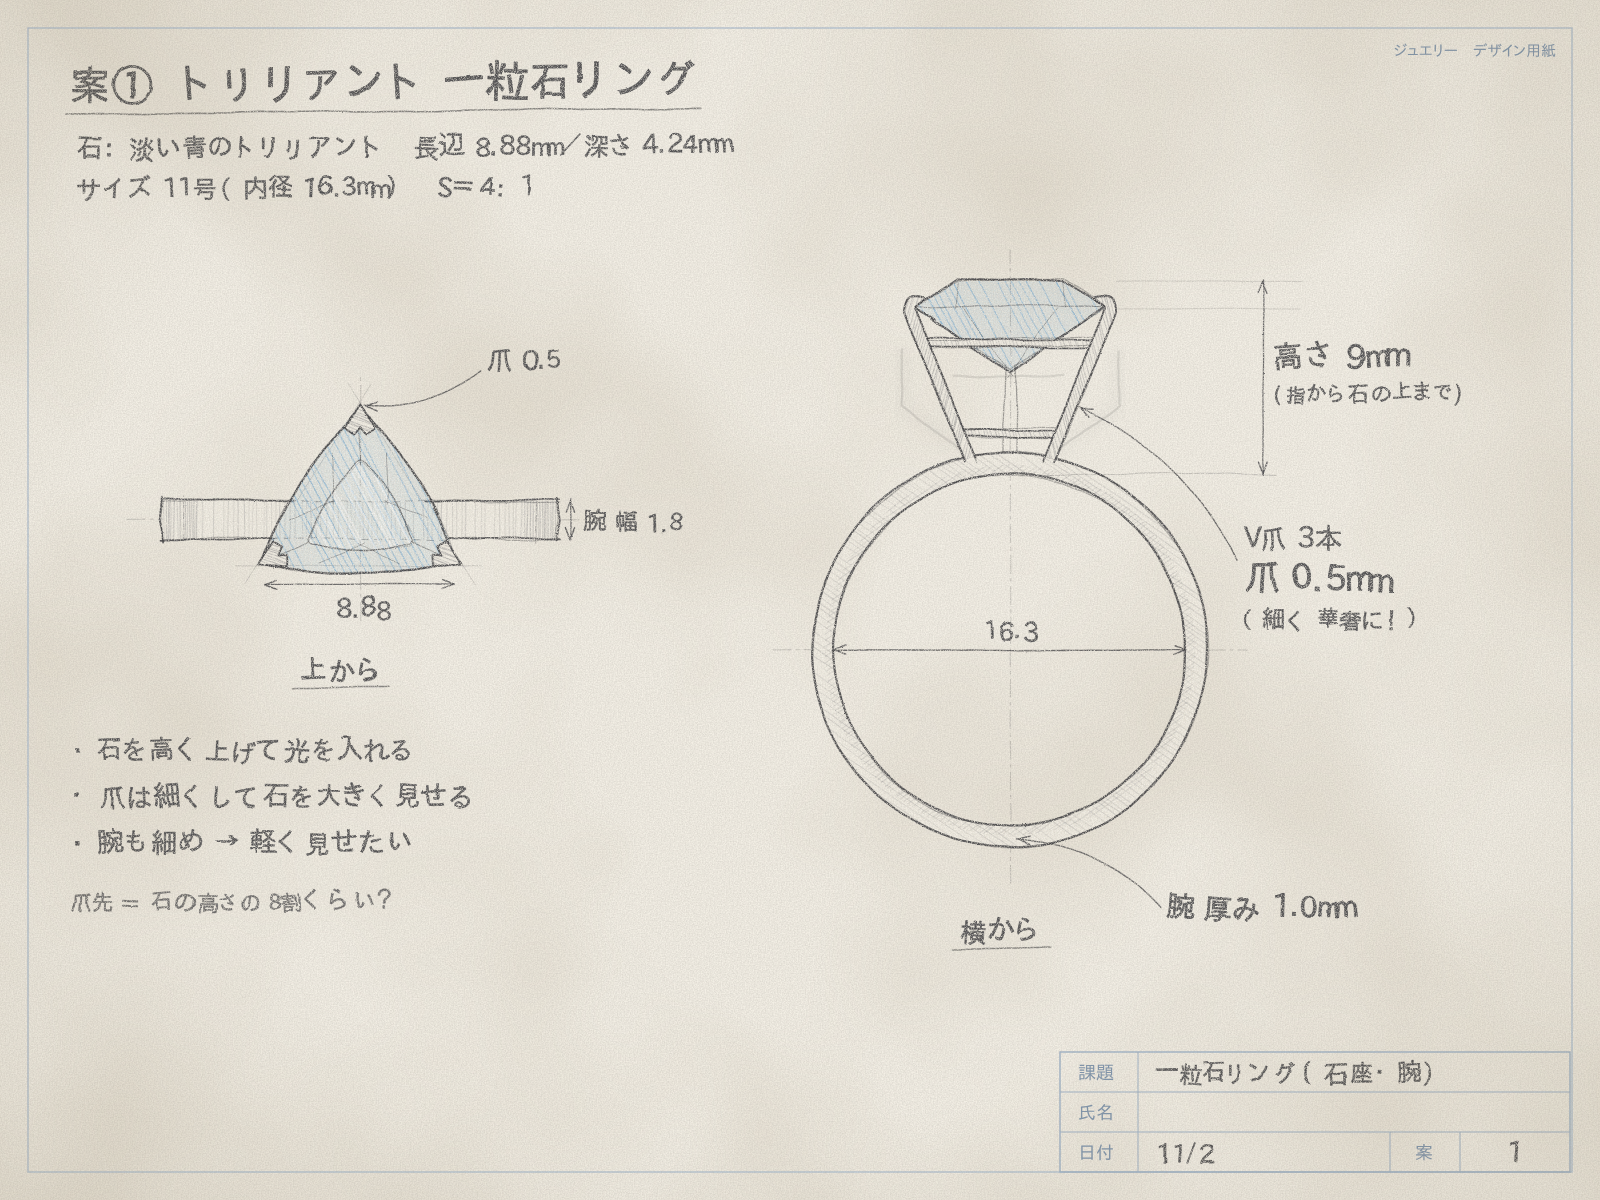
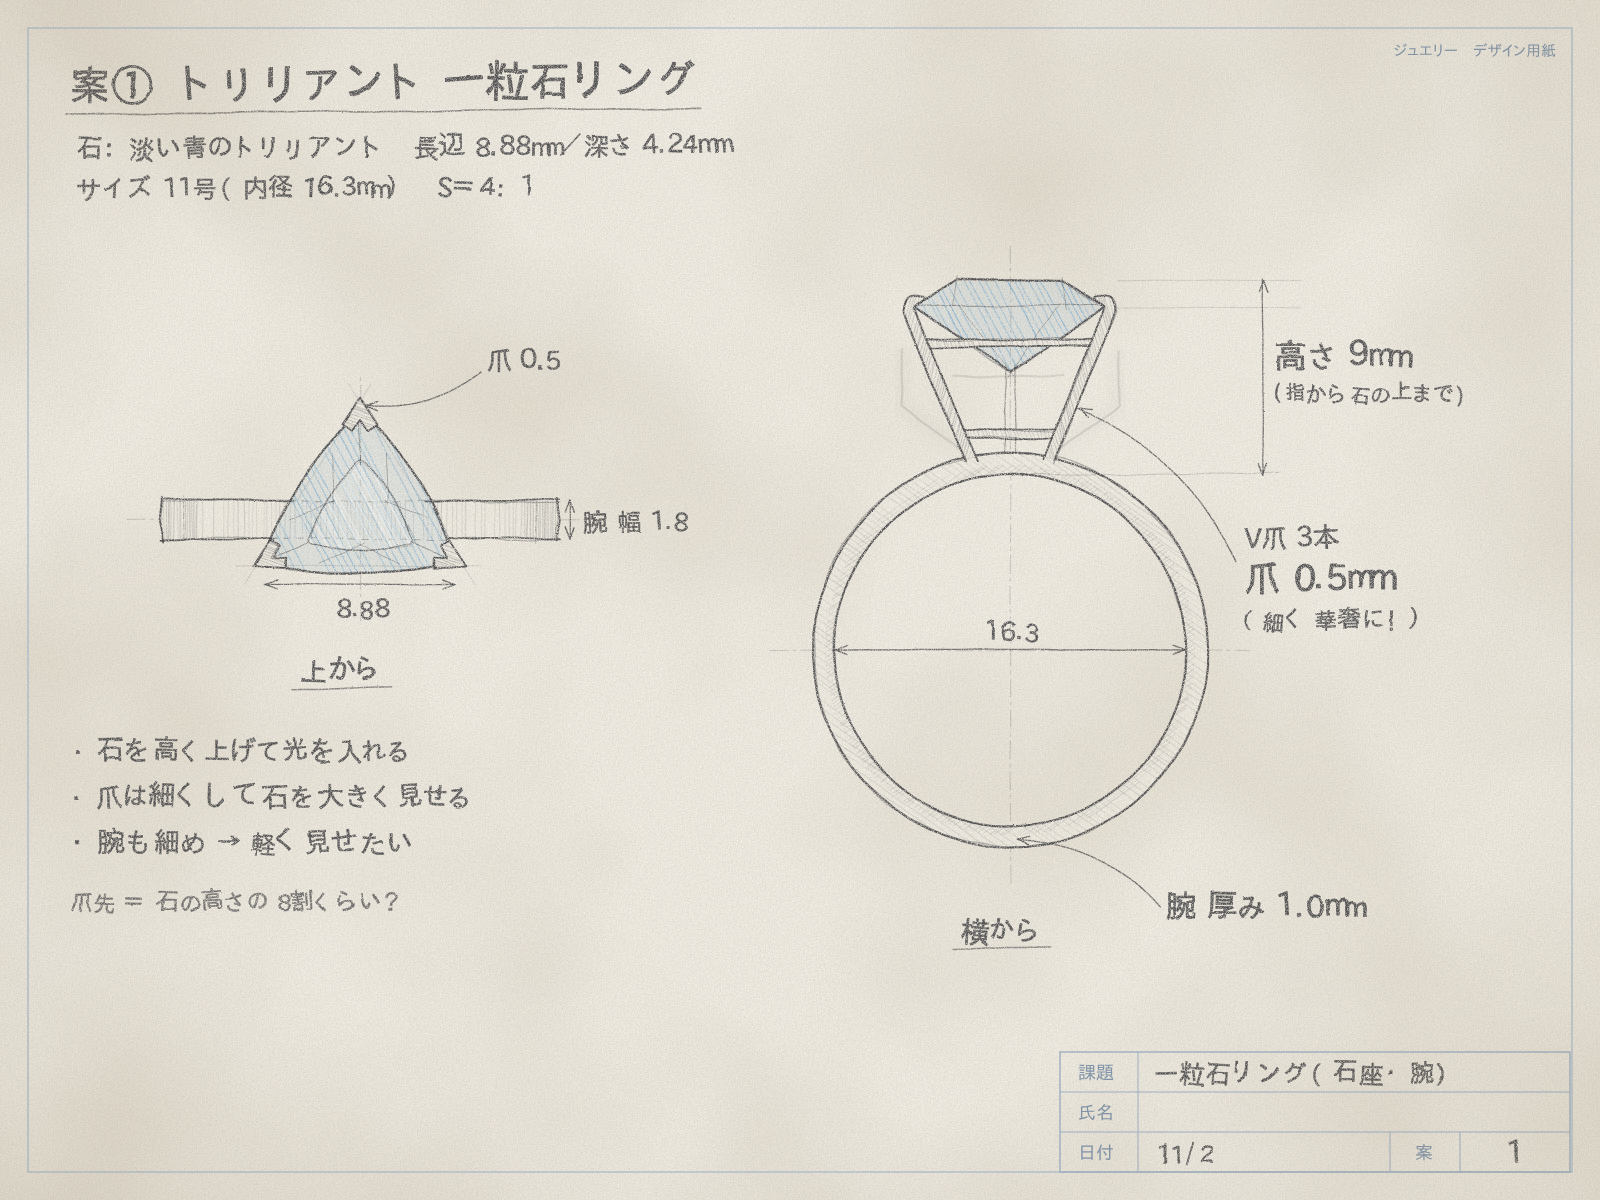
デモ用のラフの絵を、描き直した分に差し替える（途中）
Claude-Session: https://claude.ai/code/session_01HnxViJxGtPKPtM8SjuGHoY

diff --git a/samples/roughs/README.md b/samples/roughs/README.md
@@ -1,0 +1,23 @@
+# roughs（生徒のラフ画 ＝ デモ用の見本）
+
+「継ぐ」で、生徒の手描きラフを職人の目安で確かめる流れを見せるための画像。
+
+**これは本物の生徒の作品ではない。** デモのために、コード（Node のスクリプト）で線を少しずつ揺らして手描き風に描き、ヘッドレスのブラウザ（Playwright）で PNG にした。外の画像や作品は使っていない。氏名の欄はわざと空けてある。文字は IPA Pゴシック（IPA フォントライセンス）を 1 文字ずつ傾けて描いた。
+
+## 共通の条件
+
+- 石：淡い青のトリリアント（角の丸い三角）。長辺 8.88 mm、幅 7.52 mm、深さ 4.24 mm（上側 1.27 mm／下側 2.97 mm として描いた）。
+- 指輪：一粒石、サイズ 11 号（内径 16.3 mm）。
+- 図：上から見た図と、横から（指の方向から）見た図。縮尺は 4：1（1600 × 1200 px の紙を A4 横とみなす）。図の寸法は mm の値に合わせて描いてある。
+- 紙：生成りの用紙、鉛筆の線、色鉛筆の青、消しゴムで消した跡と下書きの線つき。
+
+## 4 枚の中身
+
+| ファイル | 生徒のねらい（メモ） | 入れてある問題（職人が気づく所） |
+| --- | --- | --- |
+| `rough-1-thin-prongs.png` | 石を高く上げて光を入れる。爪も腕も細く、華奢に。 | **爪が細い・石が高すぎ。** V 字の爪 3 本が「爪 0.5mm」（この石の大きさなら目安は 1.0 mm 前後）。「高さ 9mm」（指から石の上まで。標準なら約 5 mm）で、爪の足が約 8 mm と長く弱い。腕も「腕 厚み 1.0mm」（目安 1.6 mm）、幅 1.8 mm と細い。 |
+| `rough-2-low-bezel.png` | 覆輪で石を包み、指にそうくらい低くして引っかからないように。 | **石の下が指に当たる。** 「低め 覆輪」で全高 3.4 mm。横からの図で、石の一番下（キューレット）が腕の内側の線より 0.8 mm 下に出ている（目安は指から 0.3 mm 以上はなす）。さらに「壁 0.3mm」で覆輪の壁が薄い（目安 0.5 mm、0.4 mm 未満は薄い）。 |
+| `rough-3-openwork.png` | アンティーク風に、石の下をレースのような透かしにする。肩にトゲ（いばら）。 | **入り組んでいて磨けない。** 石の下の透かしに小さな輪が 2 段、輪の間にひし形、下に唐草の巻き。「すき間 0.3mm」「線 0.4mm」（拡大図 A に寸法）。すき間が細かすぎて磨きの道具が入らず、線も細く弱い。肩の「トゲ飾り」（長さ約 2.3 mm と 1.7 mm、先はシャープ）は服や髪に引っかかる。爪は V 字 1.0 mm、腕 2.2 × 1.6 mm、高さは指から石の一番下まで 2.8 mm で、ここは大きな問題なし。 |
+| `rough-4-ok.png` | 3 つの角を V 字の爪で守る。角や縁は丸めて磨けるように。 | **問題なし（職人が通せる案）。** V 字の爪 1.2 mm × 3 本、爪の先は石の高さの 80%。高さは標準（＋0.5）で、キューレットと指のすき間 0.8 mm（隠れ線と寸法で示す）。指から石の上まで 5.0 mm。腕は幅 2.2 × 厚み 1.6 mm。石座の輪 1 本で爪の足をつなぐ。 |
+
+数字は `.claude/skills/jeweler-guides/SKILL.md` の目安と比べやすい値にしてある（目安・最後は職人が決める）。
